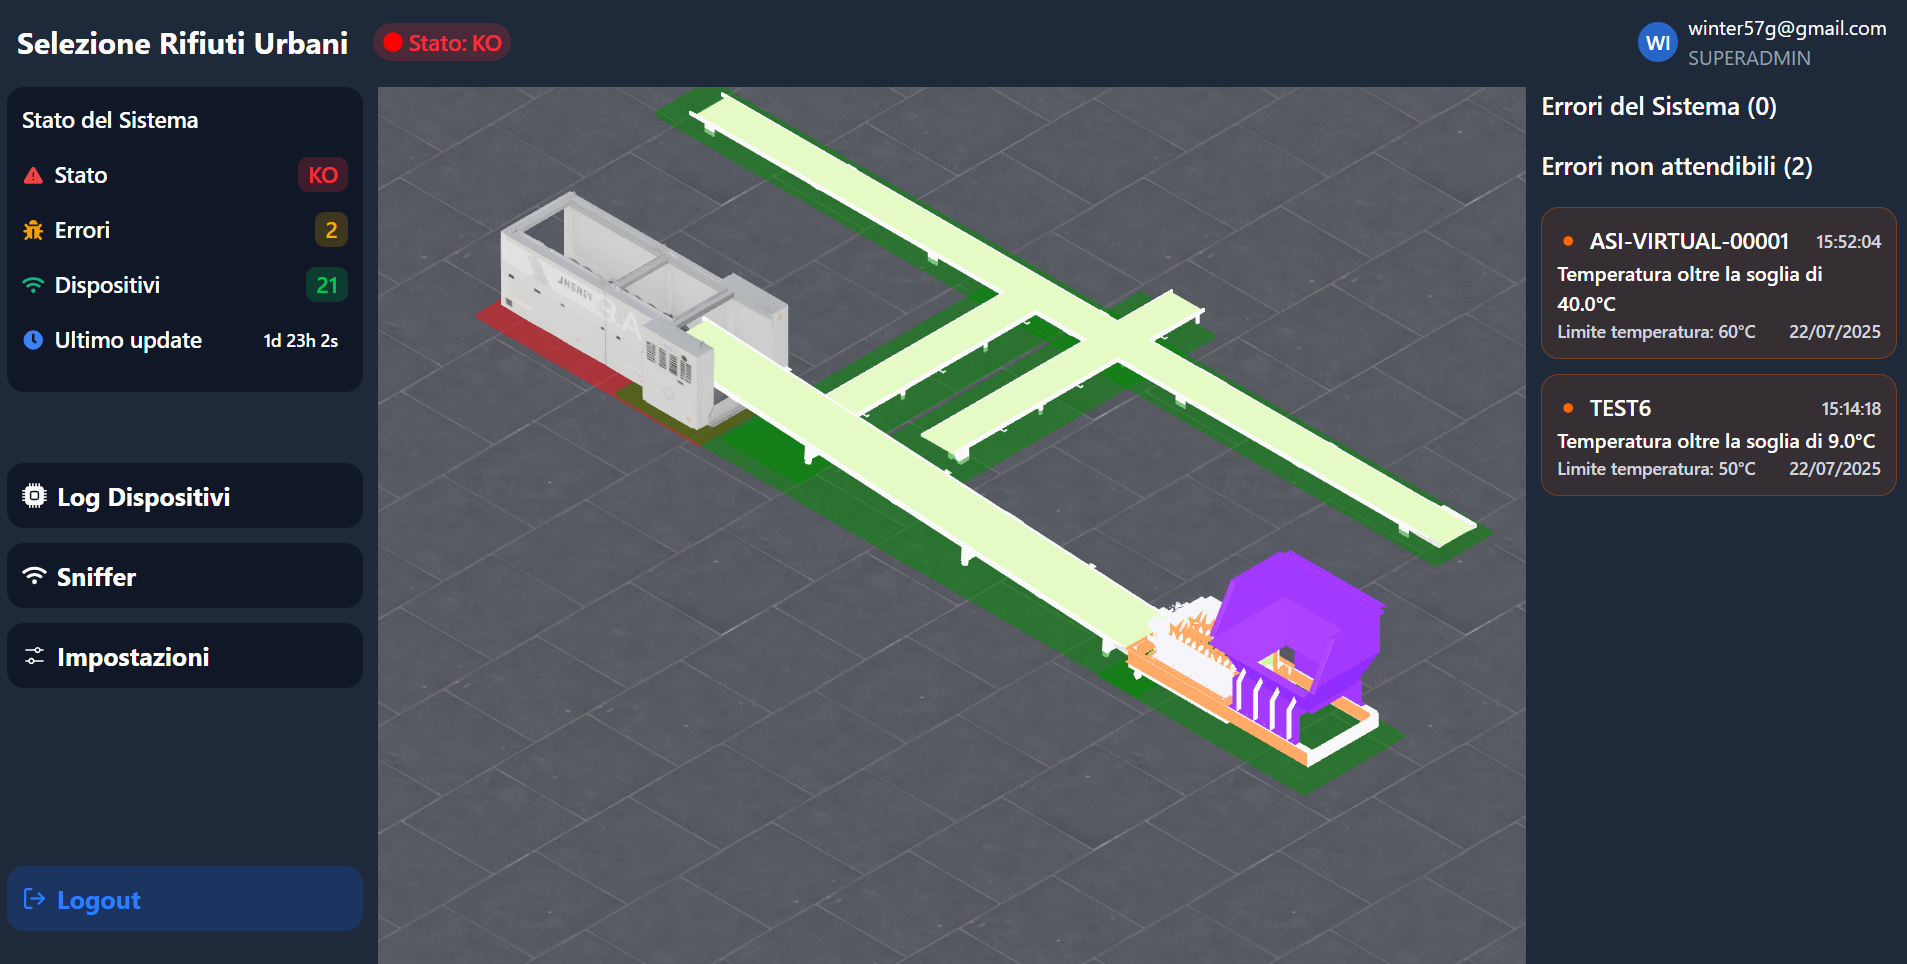
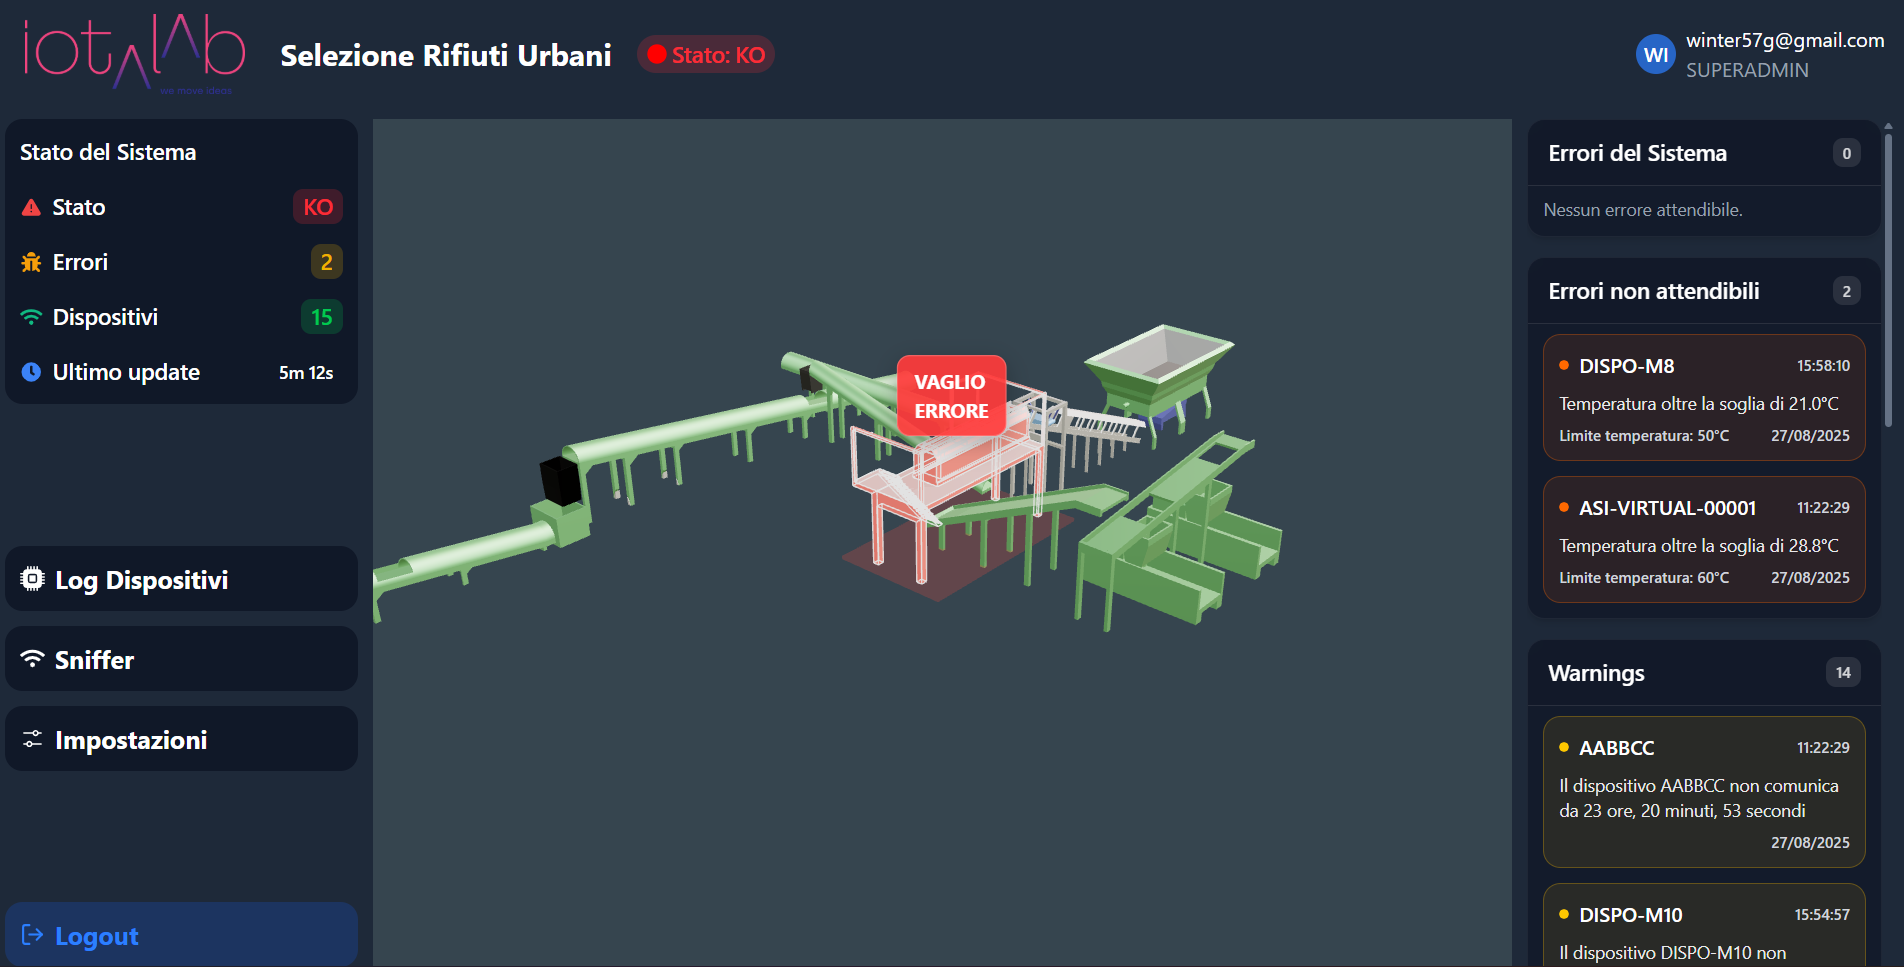
Updated github images

diff --git a/README.md b/README.md
@@ -7,11 +7,17 @@ Panoramica impianto
 ![view dettaglia](./immagini_github/detailed_view_conveyor2.png)
 Overview dettagliata Nastro Trasportatore
 
+![whitelist](./immagini_github/whitelist.png)
+Whitelist
+
+![dispositivi](./immagini_github/dispositivi.png)
+Dispositivi
+
+![unita](./immagini_github/unita.png)
+Unità
+
 ![login](./immagini_github/login.png)
 Login Form
 
 ![register](./immagini_github/register.png)
 Register Form
-
-![whitelist](./immagini_github/whitelist.png)
-Whitelist
